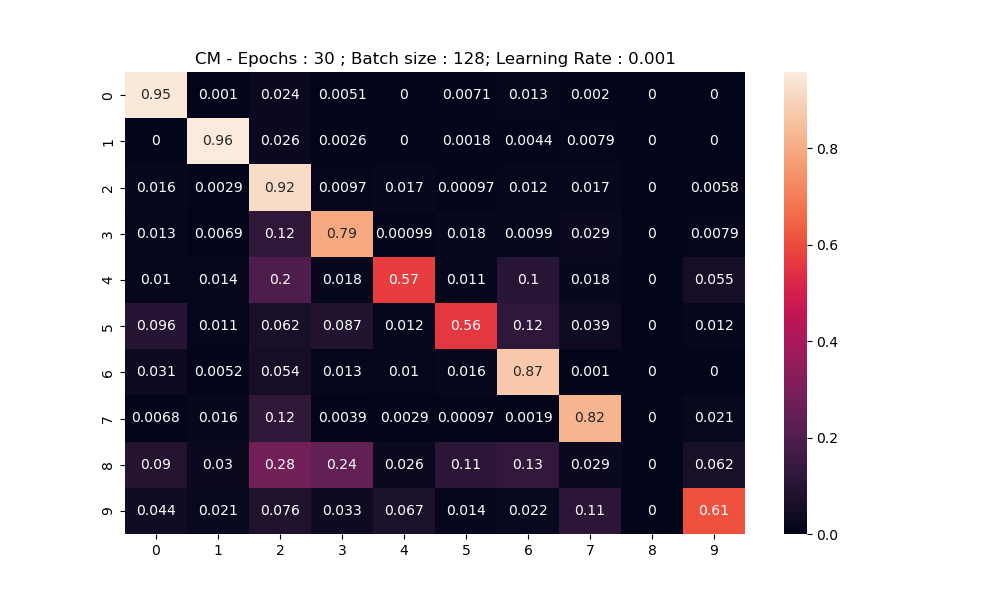
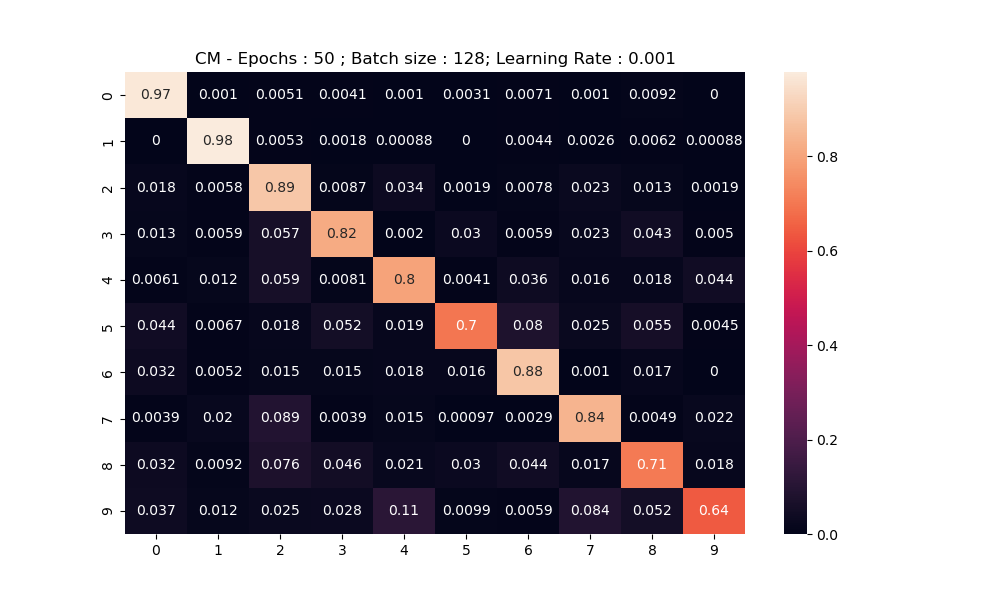
stopped figure data

diff --git a/src/demo.py b/src/demo.py
@@ -133,10 +133,14 @@ def train_validation_test(X_train, y_train, X_test, y_test, val_proportion = 0.1
     X_test : array
     y_test : array
     '''
-    # Shuffle train data set
+    # Shuffle train data set and test data set
     ns =  X_train.shape[0]
     shuffle_index = np.random.permutation(ns)
     train_images, train_labels = X_train[shuffle_index,:,:,:], y_train[shuffle_index]
+
+    ns =  X_test.shape[0]
+    shuffle_index = np.random.permutation(ns)
+    test_images, test_labels = X_test[shuffle_index,:,:,:], y_test[shuffle_index]
 
     # Set validation index
     val_size = int(ns * val_proportion)
@@ -146,8 +150,10 @@ def train_validation_test(X_train, y_train, X_test, y_test, val_proportion = 0.1
     y_tr = train_labels[:-val_size]
     X_val = train_images[-val_size:,:,:,:]
     y_val = train_labels[-val_size:]
+    X_te = test_images
+    y_te = test_labels
     
-    return X_tr, y_tr, X_val, y_val, X_test, y_test
+    return X_tr, y_tr, X_val, y_val, X_te, y_te
 
 
 def prep_flat_image(X, y):
@@ -595,6 +601,10 @@ if __name__ == '__main__':
 
     tx, ty, vx, vy, tex, tey = train_validation_test(X_train, y_train, X_test, y_test)
 
+    # unique, counts = np.unique(tey, return_counts=True)
+    # plt.bar(['0', '1', '2', '3', '4', '5', '6', '7', '8', '9'], counts)
+    # plt.show()
+
     # Computation device
 
     device = ("cuda" if torch.cuda.is_available() else "cpu")
@@ -604,7 +614,7 @@ if __name__ == '__main__':
     PATIENCE = 5
     BATCH_SIZE = 128
     NUM_WORKERS = 0
-    EPOCHS = 30
+    EPOCHS = 50
     LR = 0.001
     LOSS_FN = nn.CrossEntropyLoss(reduction = 'none')
 
